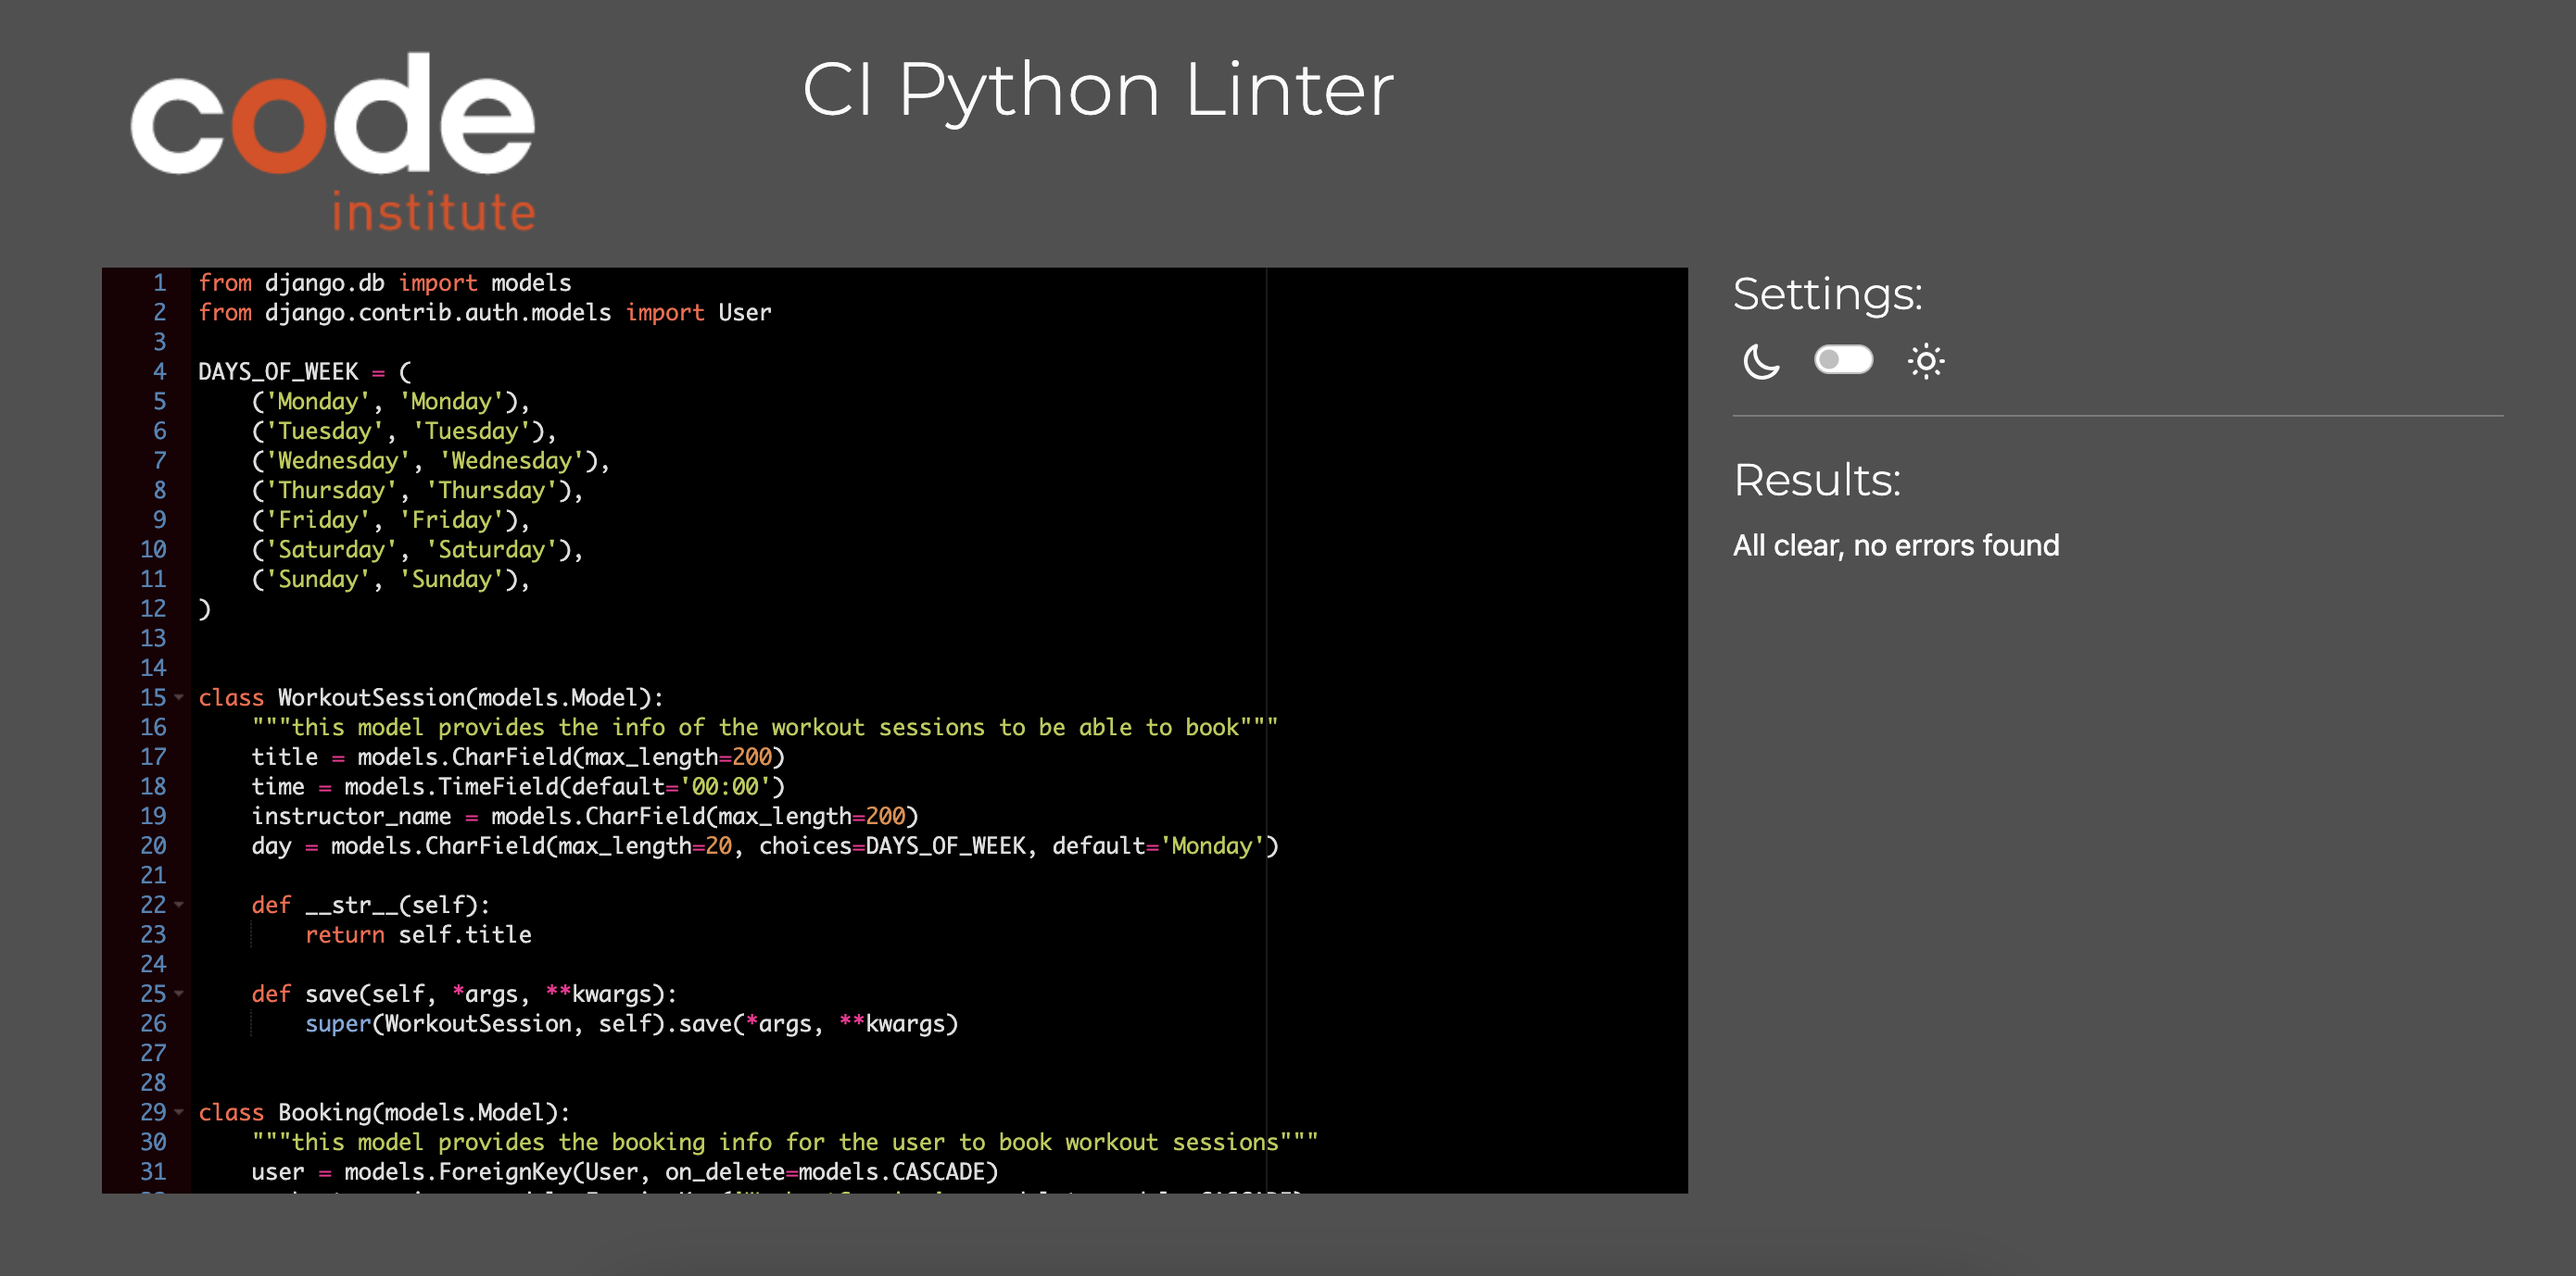
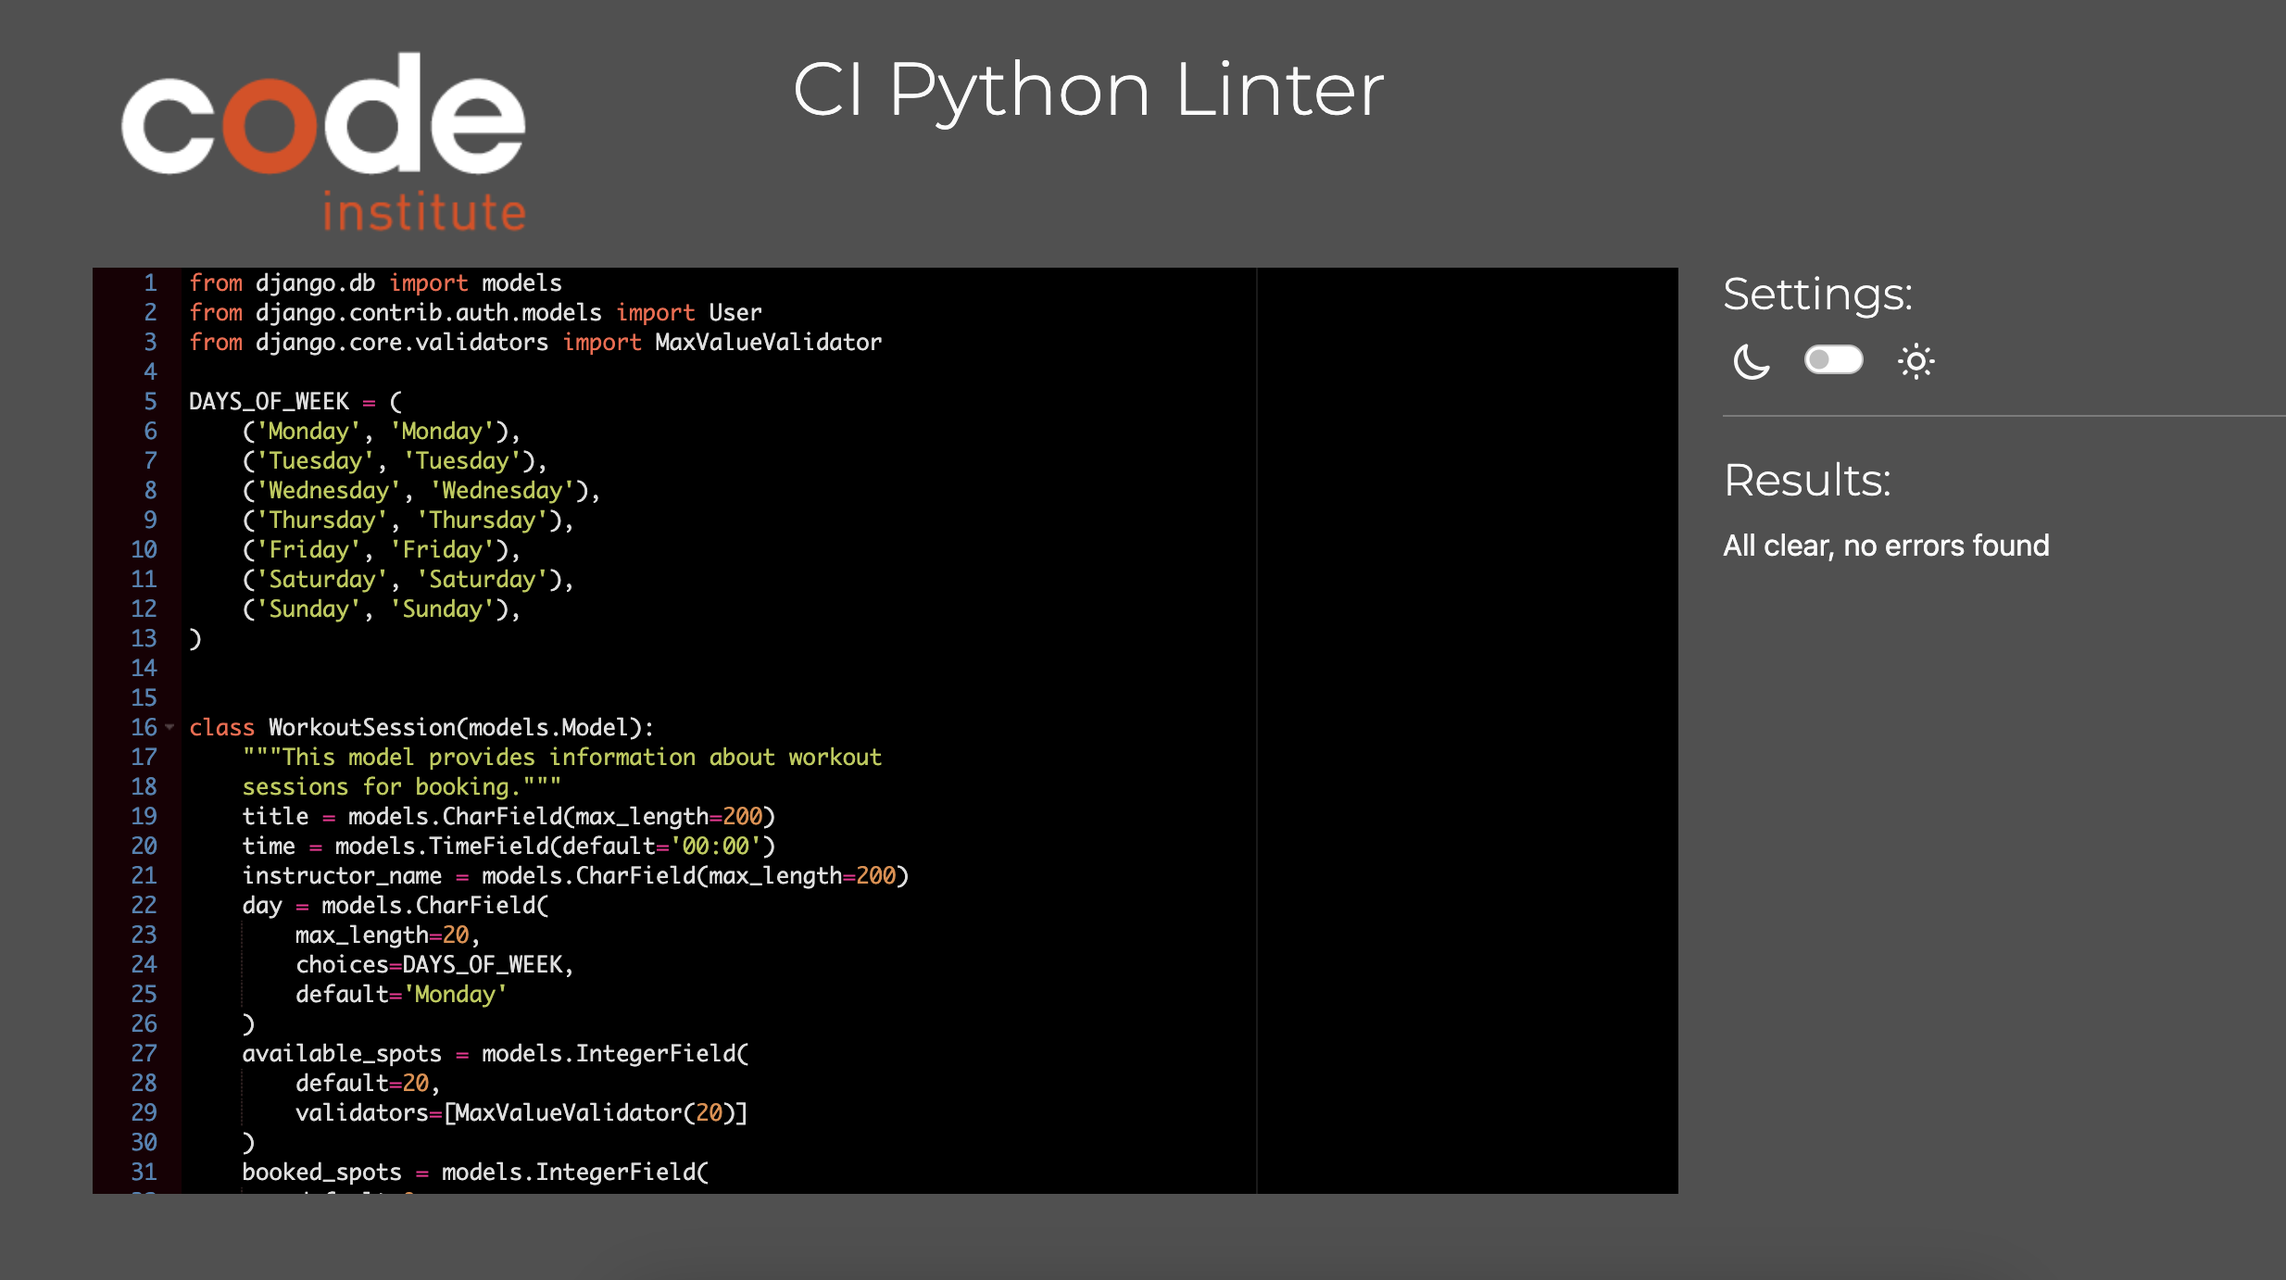
double check linters and add changes

diff --git a/signup/models.py b/signup/models.py
@@ -14,13 +14,24 @@ DAYS_OF_WEEK = (
 
 
 class WorkoutSession(models.Model):
-    """this model provides the info of the workout sessions to be able to book"""
+    """This model provides information about workout
+    sessions for booking."""
     title = models.CharField(max_length=200)
     time = models.TimeField(default='00:00')
     instructor_name = models.CharField(max_length=200)
-    day = models.CharField(max_length=20, choices=DAYS_OF_WEEK, default='Monday')  
-    available_spots = models.IntegerField(default=20, validators=[MaxValueValidator(20)])
-    booked_spots = models.IntegerField(default=0, validators=[MaxValueValidator(20)])
+    day = models.CharField(
+        max_length=20,
+        choices=DAYS_OF_WEEK,
+        default='Monday'
+    )
+    available_spots = models.IntegerField(
+        default=20,
+        validators=[MaxValueValidator(20)]
+    )
+    booked_spots = models.IntegerField(
+        default=0,
+        validators=[MaxValueValidator(20)]
+    )
 
     def __str__(self):
         return self.title
@@ -30,13 +41,19 @@ class WorkoutSession(models.Model):
 
 
 class Booking(models.Model):
-    """this model provides the booking info for the user to book workout sessions"""
+    """this model provides the booking info for the user to
+    book workout sessions"""
     user = models.ForeignKey(User, on_delete=models.CASCADE)
-    workout_session = models.ForeignKey('WorkoutSession', on_delete=models.CASCADE)
-  
+    workout_session = models.ForeignKey(
+        'WorkoutSession',
+        on_delete=models.CASCADE
+    )
 
     def __str__(self):
-        return f"{self.user.username} booked {self.workout_session.title} on {self.workout_session.day} at {self.workout_session.time}"
-    
+        return (
+            f"{self.user.username} booked {self.workout_session.title} "
+            f"on {self.workout_session.day} at {self.workout_session.time}"
+        )
+
     def save(self, *args, **kwargs):
         super(Booking, self).save(*args, **kwargs)

diff --git a/signup/admin.py b/signup/admin.py
@@ -5,8 +5,14 @@ from .models import WorkoutSession, Booking
 @admin.register(WorkoutSession)
 # create workout sessions in admin panel
 class WorkoutSessionAdmin(admin.ModelAdmin):
-    list_display = ('title', 'time', 'instructor_name', 'day', 'available_spots', 'booked_spots')
-
+    list_display = (
+        'title',
+        'time',
+        'instructor_name',
+        'day',
+        'available_spots',
+        'booked_spots'
+)
 
 @admin.register(Booking)
 # create booking opporunities based on the workout sessions in admin panel

diff --git a/crossfit/settings.py b/crossfit/settings.py
@@ -64,7 +64,6 @@ INSTALLED_APPS = [
     'django_summernote',
     'crispy_forms',
     'signup',
-    # # 'crossfit',
 ]
 
 SITE_ID = 1

diff --git a/README.md b/README.md
@@ -310,6 +310,8 @@ All Python code was manually checked using CI Python Linter. The Linter reports 
 ![forms.py](./static/assets/validations/linter-forms.png)
 * views.py
 ![views.py](./static/assets/validations/linter-views.png)
+* admin.py
+![admin.py](./static/assets/validations/linter-admin.png)
 
 During testing a few issues were identified and corrected:
 
